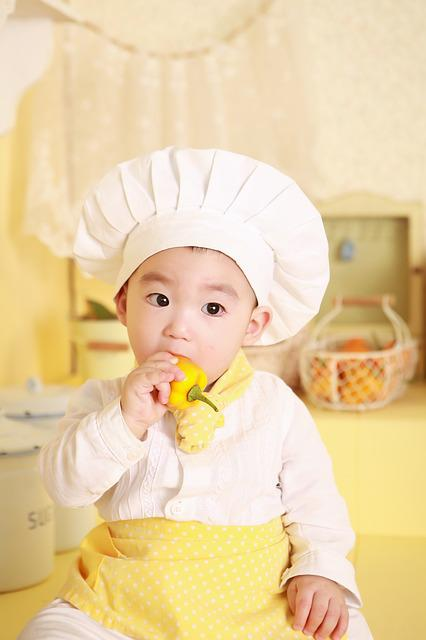
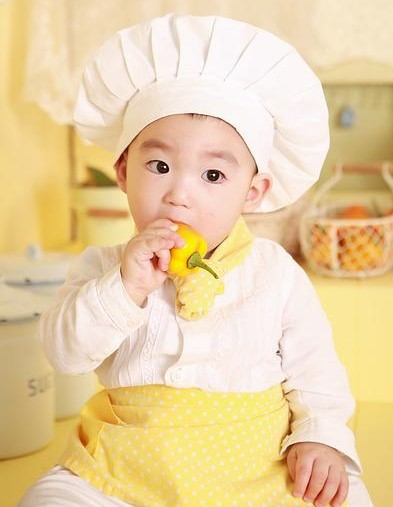
Resize source image and add width/height attribute

diff --git a/recipes/herb-cauliflower-rice.html b/recipes/herb-cauliflower-rice.html
@@ -7,15 +7,11 @@
 
 <body>
   <h1>Herb Cauliflower Rice</h1>
-
-  <img src="../img/herb-cauliflower-rice.jpg" alt="Garlic herb cauliflower rice finished dish">
+  <img src="../img/herb-cauliflower-rice.jpg" alt="Garlic herb cauliflower rice finished dish" width="600" height="400">
 
   <h2>Description</h2>
-  
   <p><em>Time: 20 minutes</em></p>
-
   <p>Herb cauliflower rice is a delicious guilt-free side dish!  Cauliflower is low carb, high in vitamins and fiber, and a good source of antioxidents.  Cauliflower by itself is pretty boring, but kick it up a notch by adding butter, garlic, fresh herbs, and fresh lemon juice, and you get a herby flavor explosion!  Then sprinkle almond slices to introduce some extra crunch and texture.  Yum!</p>
-
   <p>Tip: I prefer to use store bought cauliflower rice, as it was too much trouble and messy to cut it into tiny pieces.  But if you do opt to make your own, you can always store extras in the freezer for 1-2 months.</p>
   
   <h2>Ingredients</h2>
@@ -38,7 +34,6 @@
   </ol>
 
   <p><em>Recipe source: </em><a href="https://www.inspiredtaste.net/40958/herb-cauliflower-rice/">https://www.inspiredtaste.net/40958/herb-cauliflower-rice/</a></p>
-
   <p><a href="../index.html">Back to Home</a></p>
 </body>
 </html>

diff --git a/recipes/broccoli-mushroom-shrimp.html b/recipes/broccoli-mushroom-shrimp.html
@@ -7,15 +7,11 @@
 
 <body>
   <h1>Broccoli Mushroom Shrimp</h1>
-
-  <img src="../img/broccoli-mushroom-shrimp.jpg" alt="Broccoli mushroom shrimp finished dish">
+  <img src="../img/broccoli-mushroom-shrimp.jpg" alt="Broccoli mushroom shrimp finished dish" width="550" height="546">
 
   <h2>Description</h2>
-  
   <p><em>Time: 25 minutes</em></p>
-
   <p>Broccoli mushroom shrimp stir fry in a classic ginger sesame sauce is packed with veggies and proteins, providing a well-balanced meal for the family.  This tasty dish is simple, but yummy, and is easily made from kitchen and pantry staples.</p>
-
   <p>It is very saucy, and complements rice perfectly!  The flavor is mild, and leaves you feeling good afterwards, unlike the overly salted takeout that is all too common.</p>
   
   <h2>Ingredients</h2>
@@ -28,7 +24,6 @@
     <li>3/4 cup water</li>
     <li>2 tbsp cornstarch</li>
   </ul>
-
   <h4>Dish Ingredients</h4>
   <ul>
     <li>2 - 2 tbsp canola oil</li>
@@ -56,7 +51,6 @@
   </ol>
 
   <p><em>Recipe source: </em><a href="https://youtu.be/BA5F_cD7pJo">https://youtu.be/BA5F_cD7pJo</a></p>
-
   <p><a href="../index.html">Back to Home</a></p>
 </body>
 </html>

diff --git a/recipes/strawberry-cinnamon-oatmeal.html b/recipes/strawberry-cinnamon-oatmeal.html
@@ -7,12 +7,10 @@
 
 <body>
   <h1>Strawberry Cinnamon Oatmeal</h1>
-  <img src="../img/strawberry-cinnamon-oatmeal.jpg" alt="Strawberry cinnamon oatmeal finished dish">
+  <img src="../img/strawberry-cinnamon-oatmeal.jpg" alt="Strawberry cinnamon oatmeal finished dish" width="550" height="557">
 
   <h2>Description</h2>
-  
   <p><em>Time: 3 minutes</em></p>
-
   <p>Strawberry cinnamon oatmeal makes for a hearty breakfast, and is a great way to fuel up for the day.  It only takes 3 minutes to make, and is healthy, filling, and sweet!  To switch things up, you can substitute the strawberries, if you're in a peach or blueberry mood today!</p>
   
   <h2>Ingredients</h2>
@@ -33,7 +31,6 @@
   </ol>
 
   <p><em>Recipe source: </em>Myself</p>
-
   <p><a href="../index.html">Back to Home</a></p>
 </body>
 </html>

diff --git a/index.html b/index.html
@@ -8,13 +8,11 @@
 
   <body>
     <h1>My Family's Favorite Recipes</h1>
-
-    <img src="img/baby-chef.jpg" alt="cute baby chef eating bell pepper">
+    <img src="img/baby-chef.jpg" alt="cute baby chef eating bell pepper" width="393" height="507">
 
     <p>Sometimes it's tough finding the time and energy to create a tasty, yet healthy home-cooked meal.</p>
-
     <p>Here are 3 beginner-friendly recipes my family enjoys that are relatively quick and easy to make.  The last 2 have my 2 year-old toddler's stamp of approval, not an easy feat, as we all know what picky eaters they can be!</p> 
-
+    
     <ul>
       <li><a href="recipes/broccoli-mushroom-shrimp.html">Broccoli Mushroom Shrimp</a></li>
       <li><a href="recipes/herb-cauliflower-rice.html">Herb Cauliflower Rice</a></li>
